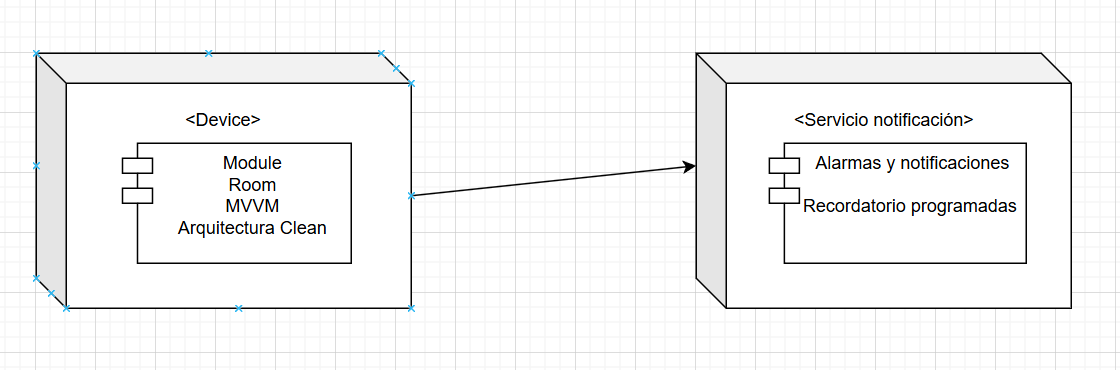
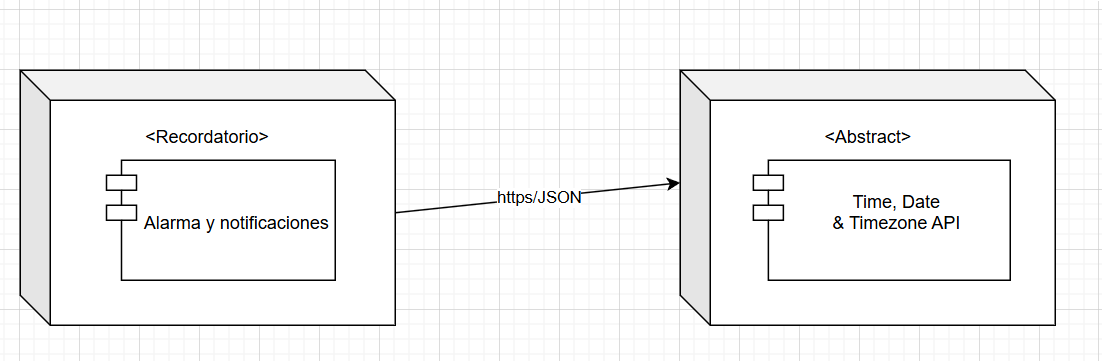
Cambio de errores

diff --git a/README.md b/README.md
@@ -20,10 +20,10 @@ Los aplicaciones de hoy en dia por lo visto solo es anotar texto y marcarlo en e
 Además los datos no comparten la misma en diferentes dispositivos.
 
 ### Aplicaciones existentes
-+ Evernote: Complejo, con funciones innecesarias para usuarios básicos.
-+ Google Keep: Sencillo pero con organización limitada.
-+ Notion: Potente pero con curva de aprendizaje alta.
-+ Apple Notes: Solo para ecosistema Apple.
++ **Evernote:** Complejo, con funciones innecesarias para usuarios básicos.
++ **Google Keep:** Sencillo pero con organización limitada.
++ **Notion:** Potente pero con curva de aprendizaje alta.
++ **Apple Notes:** Solo para ecosistema Apple.
 
 ### Mi aplicación
 + **Simple y fácil de usar:** Interfaz simple y intuitiva para que los usuarios puedan crear y gestionar recordatorios de manera rápida y sencilla.
@@ -40,15 +40,21 @@ Además los datos no comparten la misma en diferentes dispositivos.
 + **Acceso a base de datos:** Los datos del usuario se guardan en una base de datos, permitiendo su acceso desde distintos dispositivos.
 
 #### Requisito Funcionales y No Funcionales
-+ Funcionales:
++ **Funcionales:**
     + Crear, editar y eliminar recordatorios.
-    + Recibir notificaciones y alarmas según la fecha y configuración del recordatorio.
-    + Base de datos para almacenar los recordatorios y datos del usuario.
+    + Notificaciones y alarmas de la fecha y configuración del recordatorio.
 
-+ No funcionales:
-    + Interfaz amigable y accesible.
-    + Seguridad en el manejo de datos del usuario.
-    + Disponibilidad multiplataforma.
++ **No funcionales:**
+    + Eficiencia
+        + Cargar y mostrar recordatorios de manera fluida.
+        + Margen de error en notificación y alarma entre 1 min.
+    + Escalabilidad
+        + Base de dato soporta +1000 datos.
+    + Acesibilidad
+        + Tamaño de fuente adaptable.
+    + Usabilidad
+        + Interfaz simple y fácil de usar.
+        + Manual de usuario estructurado adecuadamente.
 
 ## Diseño
 ### GUI
@@ -67,12 +73,10 @@ graph TD
 
     B --> C[Crear Recordatorio]
     B --> D[Editar Recordatorio]
-    B --> E[Configuración]
     B --> F[Cerrar Sesión]
 
     C -->|Guardar / Cancelar| B
     D -->|Eliminar / Modificar / Cancelar| B
-    E -->|Volver| B
     F --> A
 ```
 
@@ -80,11 +84,11 @@ graph TD
 #### Diagrama de Despliegue
 <img src="/Multimedia/DiagramaDespliegue.png">
 
+>Api : https://www.abstractapi.com/api/time-date-timezone-api
 
 ### Plan de Pruebas
-+ Verificar que el usuario puede crear un recordatorio con éxito.
-+ Verificar que el usuario puede editar un recordatorio existente con éxito.
-+ Verificar que el usuario puede eliminar un recordatorio existente con éxito.
-+ Verificar que el usuario pude modificar los datos de un recordatorio existente con éxito.
-+ Verificar que el sistema envía notificaciones y alarmas según la configuración del recordatorio.
-+ Sise implementa, verificar que se puede asignar como importante un recordatorio y que se muestra en otro color y este arriba de los otros.
++ Crear un recordatorio.
++ Editar un recordatorio.
++ Eliminar un recordatorio.
++ Los recordatorios se guardan en la base de datos.
++ Al llegar al tiempo la alarma se activa.
